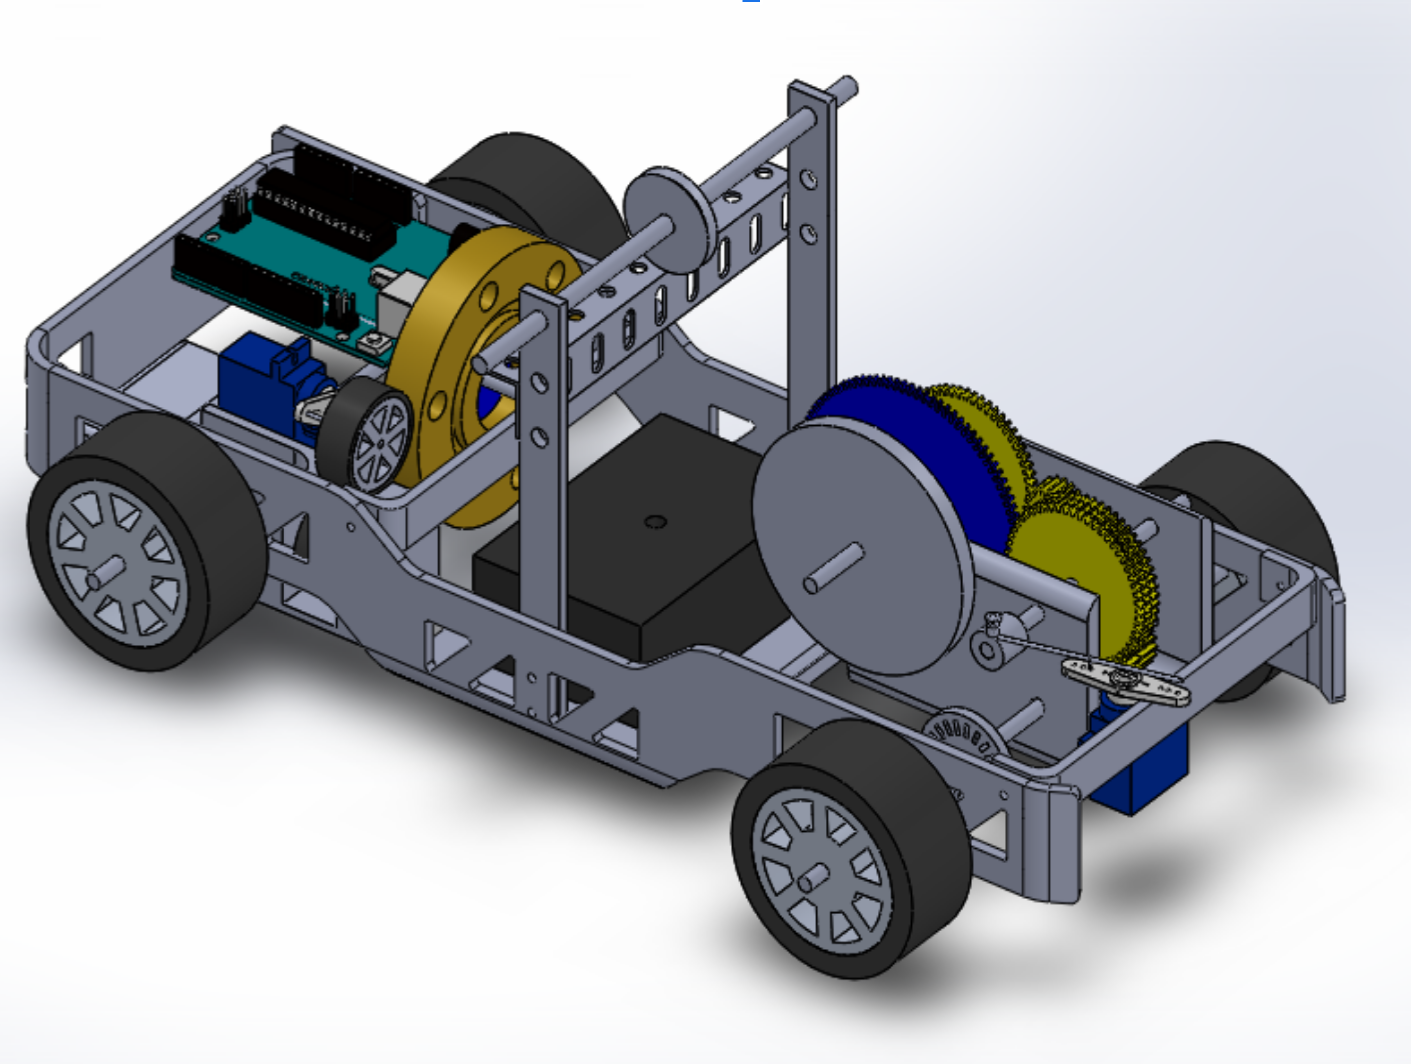
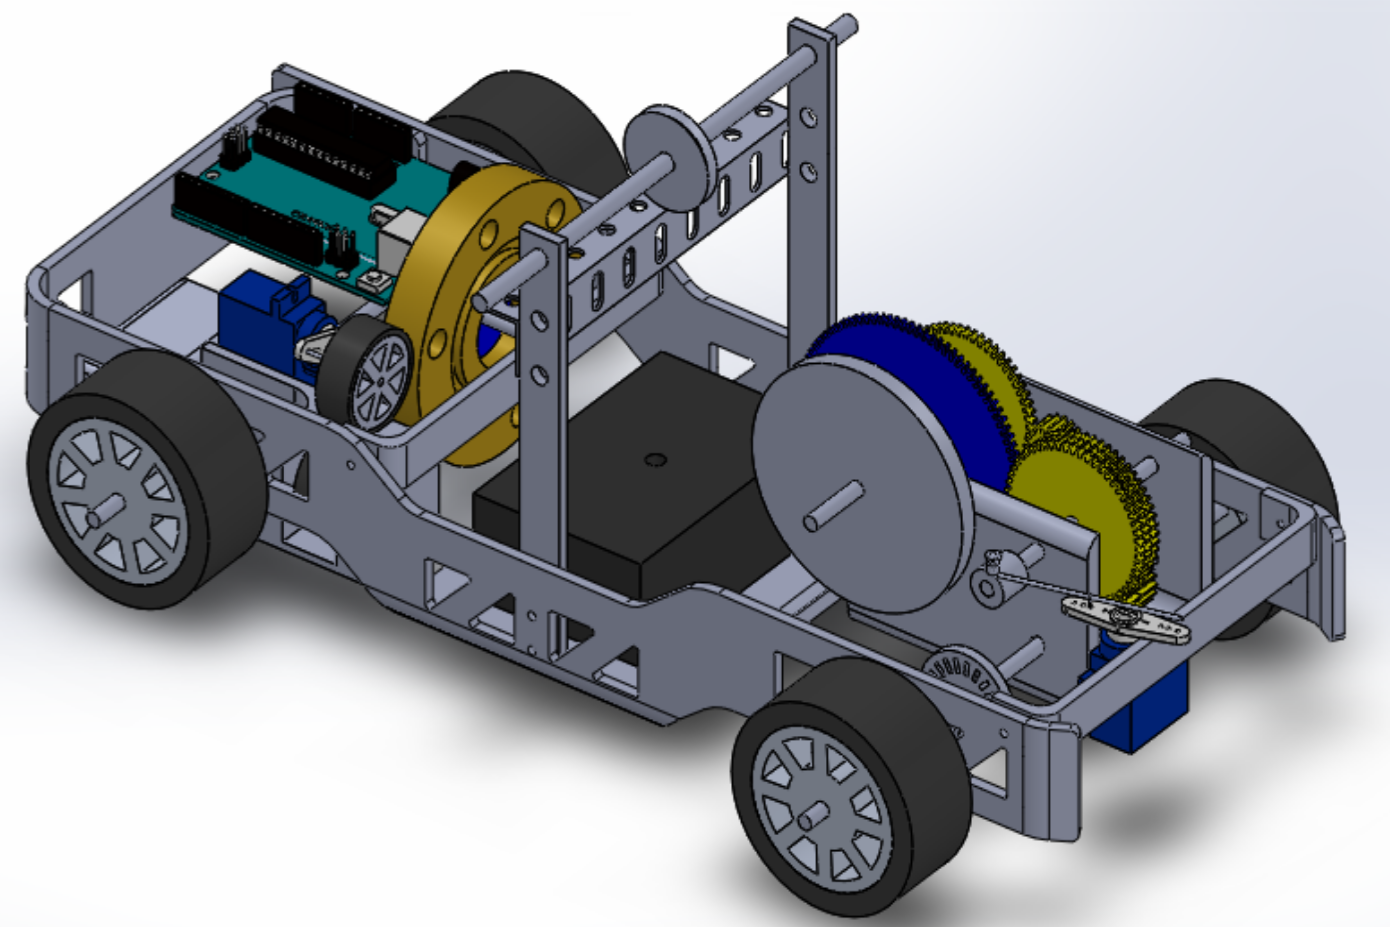
small update

diff --git a/portfolio.html b/portfolio.html
@@ -58,7 +58,7 @@
       <!-- Portfolio Section Heading -->
       <h1 class="page-section-heading text-center text-uppercase mb-6">Projects</h1>
 
-      <h4 class="mt-6">> <highlight>Robotics & Vision</highlight></h4>
+      <h4 class="mt-6">▶ <highlight>Robotics & Vision</highlight></h4>
       <div class="row mb-6">
         <div class="col-md-6 col-lg-4">
           <div class="portfolio-item mx-auto" data-toggle="modal" data-target="#wheelchair">
@@ -100,7 +100,7 @@
         </div>
       </div>
 
-      <h4 class="mt-6">> <highlight>Medical & Rehabilation</highlight></h4>
+      <h4 class="mt-6">▶ <highlight>Biomedical & Rehabilation</highlight></h4>
       <div class="row mb-6">
         <div class="col-md-6 col-lg-4">
           <div class="portfolio-item mx-auto" data-toggle="modal" data-target="#attentiv">
@@ -181,7 +181,7 @@
         </div>
       </div>
 
-      <h4 class="mt-6">> <highlight>Mixed Reality & Interaction</highlight></h4>
+      <h4 class="mt-6">▶ <highlight>Mixed Reality & Interaction</highlight></h4>
       <div class="row mb-6">
 
         <div class="col-md-6 col-lg-4">
@@ -194,7 +194,7 @@
             <img class="img-fluid" src="img/portfolio/hololabel.png" alt="">
           </div>
           <div class="portfolio-label">HoloLabel: AR Scene Annotator</div>
-          <div class="portfolio-skill">Unity, HoloLens, Python</div>
+          <div class="portfolio-skill">Unity, HoloLens, python</div>
         </div>
 
         <div class="col-md-6 col-lg-4">
@@ -225,7 +225,7 @@
 
       </div>
 
-      <h4 class="mt-6">> <highlight>Mechanical</highlight></h4>
+      <h4 class="mt-6">▶ <highlight>Mechanical</highlight></h4>
         <div class="row mb-6">
           <div class="col-md-6 col-lg-4">
             <div class="portfolio-item mx-auto" data-toggle="modal" data-target="#heelevator">
@@ -260,7 +260,7 @@
                   <p>Arduino-controlled car with regenerative braking.</p>
                 </div>
               </div>
-              <img class="img-fluid" src="img/portfolio/regen.png" alt="">
+              <img class="img-fluid" src="img/portfolio/regen2.png" alt="">
             </div>
             <div class="portfolio-label">Regenerative Braking Car</div>
             <div class="portfolio-skill">mechanical design, Arduino, controls</div>
@@ -281,7 +281,7 @@
 
       </div>
 
-      <h4 class="mt-6">> <highlight>Visual Art</highlight></h4>
+      <h4 class="mt-6">▶ <highlight>Visual Art</highlight></h4>
       <div class="row mb-6">
 
         <div class="col-md-6 col-lg-4">
@@ -331,7 +331,7 @@
   <!-- Copyright Section -->
   <section class="copyright text-center">
     <div class="pt-5 pb-5" style="background-image: url('img/mountains.png'); background-size: contain, cover; background-repeat: repeat-x;">
-      <small class="mt-6"><fulllight>made by © Jessica Bo 2021</fulllight></small>
+      <small class="mt-6"><fulllight>made by © Jessica Bo 2022</fulllight></small>
     </div>
   </section>
 
@@ -395,9 +395,9 @@
               <div class="col-lg-10">
                 <h1 class="portfolio-modal-title mb-4 text-center">HoloLens Mesh Alignment</h1>
                 <img class="img-fluid rounded mb-3" src="img/portfolio/3dvision_img.png" alt="">
-                <div class="large mb-2 font-weight-bold text-center">
+                <div class="large mb-2 font-weight-bold text-center"> ▶
                   <a href="documents/3DVReport.pdf" target="_blank">
-                    > <highlight>Paper (Class Submission)</highlight>
+                    <highlight>paper</highlight>
                   </a>
                 </div>
 
@@ -587,9 +587,9 @@
                   <iframe width="560" height="315" src="https://www.youtube.com/embed/5eSBk5gFeGo" frameborder="0" allow="accelerometer; autoplay; encrypted-media; gyroscope; picture-in-picture" allowfullscreen></iframe>
                 </div>
 
-                <div class="large mb-2 font-weight-bold text-center">
+                <div class="large mb-2 font-weight-bold text-center"> ▶ 
                   <a href="documents/FraXureReport.pdf" target="_blank">
-                    > <highlight>Full Project Report</highlight>
+                    <highlight>Project Report</highlight>
                   </a>
                 </div>
 
@@ -1020,10 +1020,19 @@
                   <iframe width="560" height="315" src="https://www.youtube.com/embed/K0sVDIbSMh4" frameborder="0" allow="accelerometer; autoplay; encrypted-media; gyroscope; picture-in-picture" allowfullscreen></iframe>
                 </div>
 
-                <div class="large mb-2 font-weight-bold text-center">
+<!--                 <div class="large mb-2 font-weight-bold text-center">
                   <a href="documents/Mixed_Reality_final_report.pdf" target="_blank">
                     > <highlight>Paper (Class Submission)</highlight>
                   </a>
+                </div>
+ -->
+                <div class="large mb-2 font-weight-bold text-center"> ▶ 
+                  <highlight>
+                    <a href="documents/Mixed_Reality_final_report.pdf" target="_blank">paper</a>
+                  </highlight>, 
+                  <highlight>
+                    <a href="https://gitlab.ethz.ch/dagrawal/mixed-reality-ar-scene-annotation-project" target="_blank"> code</a>
+                  </highlight>
                 </div>
 
                 <h6 class="large font-weight-bold "><highlight>Motivation: </highlight></h6>
@@ -1068,9 +1077,12 @@
                   <iframe width="560" height="315" src="https://www.youtube.com/embed/q1nEGKHzwJc" frameborder="0" allow="accelerometer; autoplay; encrypted-media; gyroscope; picture-in-picture" allowfullscreen></iframe>
                 </div>
 
-                <div class="large mb-2 font-weight-bold text-center">
+                <div class="large mb-2 font-weight-bold text-center"> ▶ 
                   <a href="intotheforest.html" target="_blank">
-                    > <highlight>Play the Game Demo!</highlight>
+                    <highlight>game demo</highlight>
+                  </a>, 
+                  <a href="https://github.com/jessica-bo/intotheforest" target="_blank">
+                    <highlight>code</highlight>
                   </a>
                 </div>
 
@@ -1290,6 +1302,7 @@
                         <li data-target="#tattooCarousel" data-slide-to="2"></li>
                         <li data-target="#tattooCarousel" data-slide-to="3"></li>
                         <li data-target="#tattooCarousel" data-slide-to="4"></li>
+                        <li data-target="#tattooCarousel" data-slide-to="5"></li>
                     </ol>
                     <div class="carousel-inner">
                         <div class="carousel-item active">
@@ -1314,6 +1327,12 @@
                             <img class="d-block w-100" src="img/portfolio/tattoos/mountain.jpg" alt="Tattoo of mountain">
                             <div class="carousel-caption d-none d-md-block">
                                 <h5><highlight>  minimal mountains  </highlight></h5>
+                            </div>
+                        </div>
+                        <div class="carousel-item">
+                            <img class="d-block w-100" src="img/portfolio/tattoos/triangles.jpeg" alt="Tattoo of triangles">
+                            <div class="carousel-caption d-none d-md-block">
+                                <h5><highlight>  triangles  </highlight></h5>
                             </div>
                         </div>
                         <div class="carousel-item">

diff --git a/index.html b/index.html
@@ -71,20 +71,20 @@
               <i class="fab fa-youtube"></i>
             </a>
           </div>
-          <div class="large mb-2 font-weight-bold">
+          <div class="mb-2 font-weight-bold"> ▶ 
             <a href="documents/Jessica_YiFei_Bo_CV.pdf" target="_blank">
-              > <highlight>Curriculum Vitae</highlight>
+              <highlight>Curriculum Vitae</highlight>
             </a>
           </div>
         </div>
         <div class="col-md-7 element text-left text-black">
           <h2 class="masthead-heading mt-2 mb-4">Hello, I'm Jessica </h2>
 
-          <p> I am a MSc student at <highlight>ETH Zurich</highlight> in mechanical engineering with a focus in robotics. I graduated from the <highlight>University of British Columbia</highlight> with a BASc in mechanical and biomedical engineering in 2020. Sometimes I go by my legal name, Yi Fei (亦非).</p> 
+          <p> I am a MSc student at <highlight>ETH Zurich</highlight> in Mechanical Engineering with a focus in Robotics. I graduated from the <highlight>University of British Columbia</highlight> with a BASc in Mechanical and Biomedical Engineering in 2020. Sometimes I go by my Chinese name, Yi Fei (亦非).</p> 
 
-          <p>I am currently interning at <a href="https://vilab.epfl.ch/" target="_blank" class="font-underline"><highlight>EPFL's Visual Intelligence and Learning Laboratory</highlight></a> with Amir Zamir for embodied perception and learning, previously at <a href="https://www.certec.lth.se/english" target="_blank" class="font-underline"><highlight>Lund University's CERTEC Design Group</highlight></a> for rehabilitation engineering, <a href="https://blackberry.qnx.com/en/resource-center/qnx-autonomous-vehicle-innovation-center" target="_blank" class="font-underline"><highlight>Blackberry QNX's Autonomous Vehicle Innovation Center</highlight></a> for 3D vision research & development, and <highlight>Coursera</highlight></a> and <highlight>Amazon</highlight></a> for backend software development. I was supervised by Mike Van der Loos for my Bachelor's thesis on mobile robotics at <a href="https://caris.mech.ubc.ca/" target="_blank" class="font-underline"><highlight>UBC's CARIS lab</highlight></a>. I also co-founded <a href="https://www.attentivmedical.com/" target="_blank" class="font-underline"><highlight>Attentiv Medical</highlight></a>, a sensor-embedded IV catheter that won the <a href="https://www.dysoncanada.ca/en/newsroom/overview/press-release/2020-james-dyson-award-winner" target="_blank" class="font-underline"><highlight>2020 Canadian National James Dyson Award</highlight></a>. In 2022, I'll be joining Giovanni Traverso's group at MIT to do my Master's thesis in the area of biosensing and medical diagnostics.</p>
+          <p>I am currently interning at <a href="https://vilab.epfl.ch/" target="_blank" class="font-underline"><highlight>EPFL's Visual Intelligence and Learning Laboratory</highlight></a> with Amir Zamir for embodied perception and learning, previously at <a href="https://www.certec.lth.se/english" target="_blank" class="font-underline"><highlight>Lund University's CERTEC Design Group</highlight></a> for rehabilitation engineering, <a href="https://blackberry.qnx.com/en/resource-center/qnx-autonomous-vehicle-innovation-center" target="_blank" class="font-underline"><highlight>Blackberry QNX's Autonomous Vehicle Innovation Center</highlight></a> for 3D vision research & development, and <highlight>Coursera</highlight></a> and <highlight>Amazon</highlight></a> for backend software development. I was supervised by Mike Van der Loos for my Bachelor's thesis on mobile robotics at <a href="https://caris.mech.ubc.ca/" target="_blank" class="font-underline"><highlight>UBC's CARIS lab</highlight></a>. I also co-founded <a href="https://www.attentivmedical.com/" target="_blank" class="font-underline"><highlight>Attentiv Medical</highlight></a>, a sensor-embedded IV catheter that won a <a href="https://www.dysoncanada.ca/en/newsroom/overview/press-release/2020-james-dyson-award-winner" target="_blank" class="font-underline"><highlight>National James Dyson Award</highlight></a>. In 2022, I'll be joining Giovanni Traverso's group at MIT to do my MSc thesis in the area of biorobotics for medical diagnostics.</p>
 
-          <p>My academic and career interests lie in the interdisciplinary design and research of <highlight>interactions</highlight> between <highlight>people, the natural world, and intelligent systems</highlight>. I look for impactful opportunities to leverage technology translation between research and the outer world. Additionally, I try to integrate my passion for <highlight>art, design, and usability</highlight> into my engineering work. I received the <a href="https://www.ikbbc.ca/wp-content/uploads/2019/11/Women-in-Tech-November-29-2019-FINAL.pdf" target="_blank" class="font-underline"><highlight>2019 Irving K Barber Women in Technology Scholarship</highlight></a>, and I am always interested in intersectional approaches in improving <highlight>representation and ethics</highlight> in tech.</p> 
+          <p>My interests lie within the <highlight>interactions</highlight> between <highlight>people</highlight>, the <highlight>natural world</highlight>, and <highlight>intelligent systems</highlight> across different scales — <highlight>physiological</highlight>, <highlight>cognitive</highlight>, and <highlight>societal</highlight>. In my engineering work, I also try to integrate my passion for <highlight>art</highlight>, <highlight>design</highlight>, and <highlight>usability</highlight>. I look for impactful opportunities to leverage technology translation between research and the real world. As a recipient of the <a href="https://www.ikbbc.ca/wp-content/uploads/2019/11/Women-in-Tech-November-29-2019-FINAL.pdf" target="_blank" class="font-underline"><highlight>Irving K Barber Women in Technology Scholarship</highlight></a>, I am commited to intersectional approaches in improving <highlight>representation</highlight> and <highlight>ethics</highlight> in tech. To support this goal, I am working with the <a href="https://openroboethics.org/" target="_blank" class="font-underline"><highlight>Open Roboethics Institute</highlight></a> to develop ethical design guidelines for AI tools.</p> 
         </div>
       </div>
     </div>
@@ -93,7 +93,7 @@
   <!-- Copyright Section -->
   <section class="copyright text-center">
     <div class="pt-5 pb-5" style="background-image: url('img/mountains.png'); background-size: contain, cover; background-repeat: repeat-x;">
-      <small class="mt-5"><fulllight>made by © Jessica Bo 2021</fulllight></small>
+      <small class="mt-5"><fulllight>made by © Jessica Bo 2022</fulllight></small>
     </div>
   </section>
 
